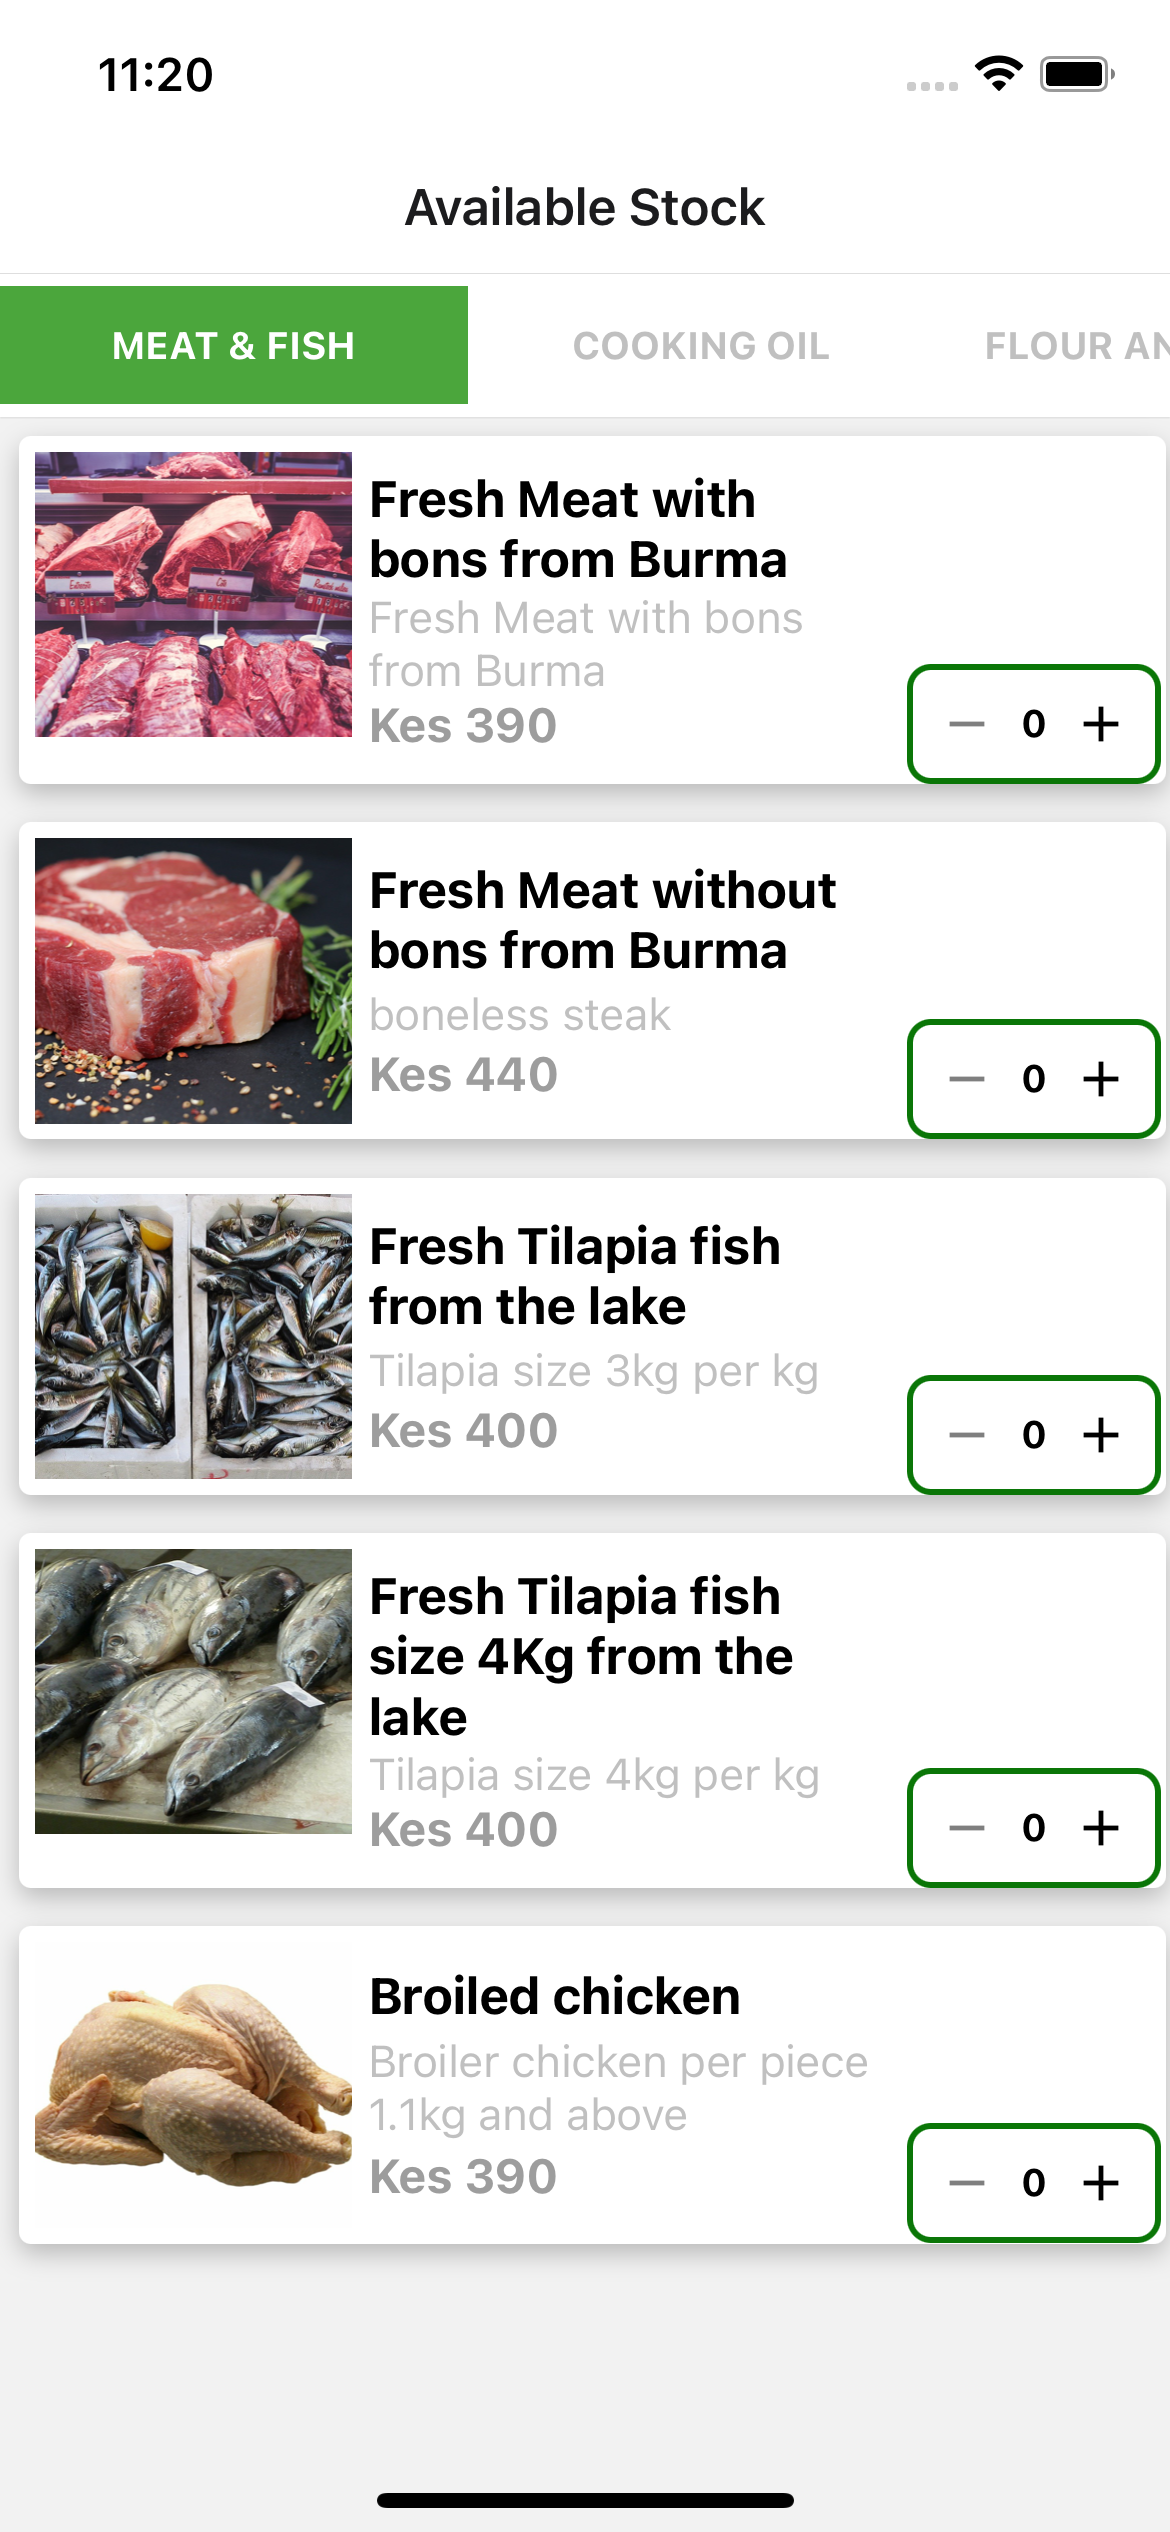
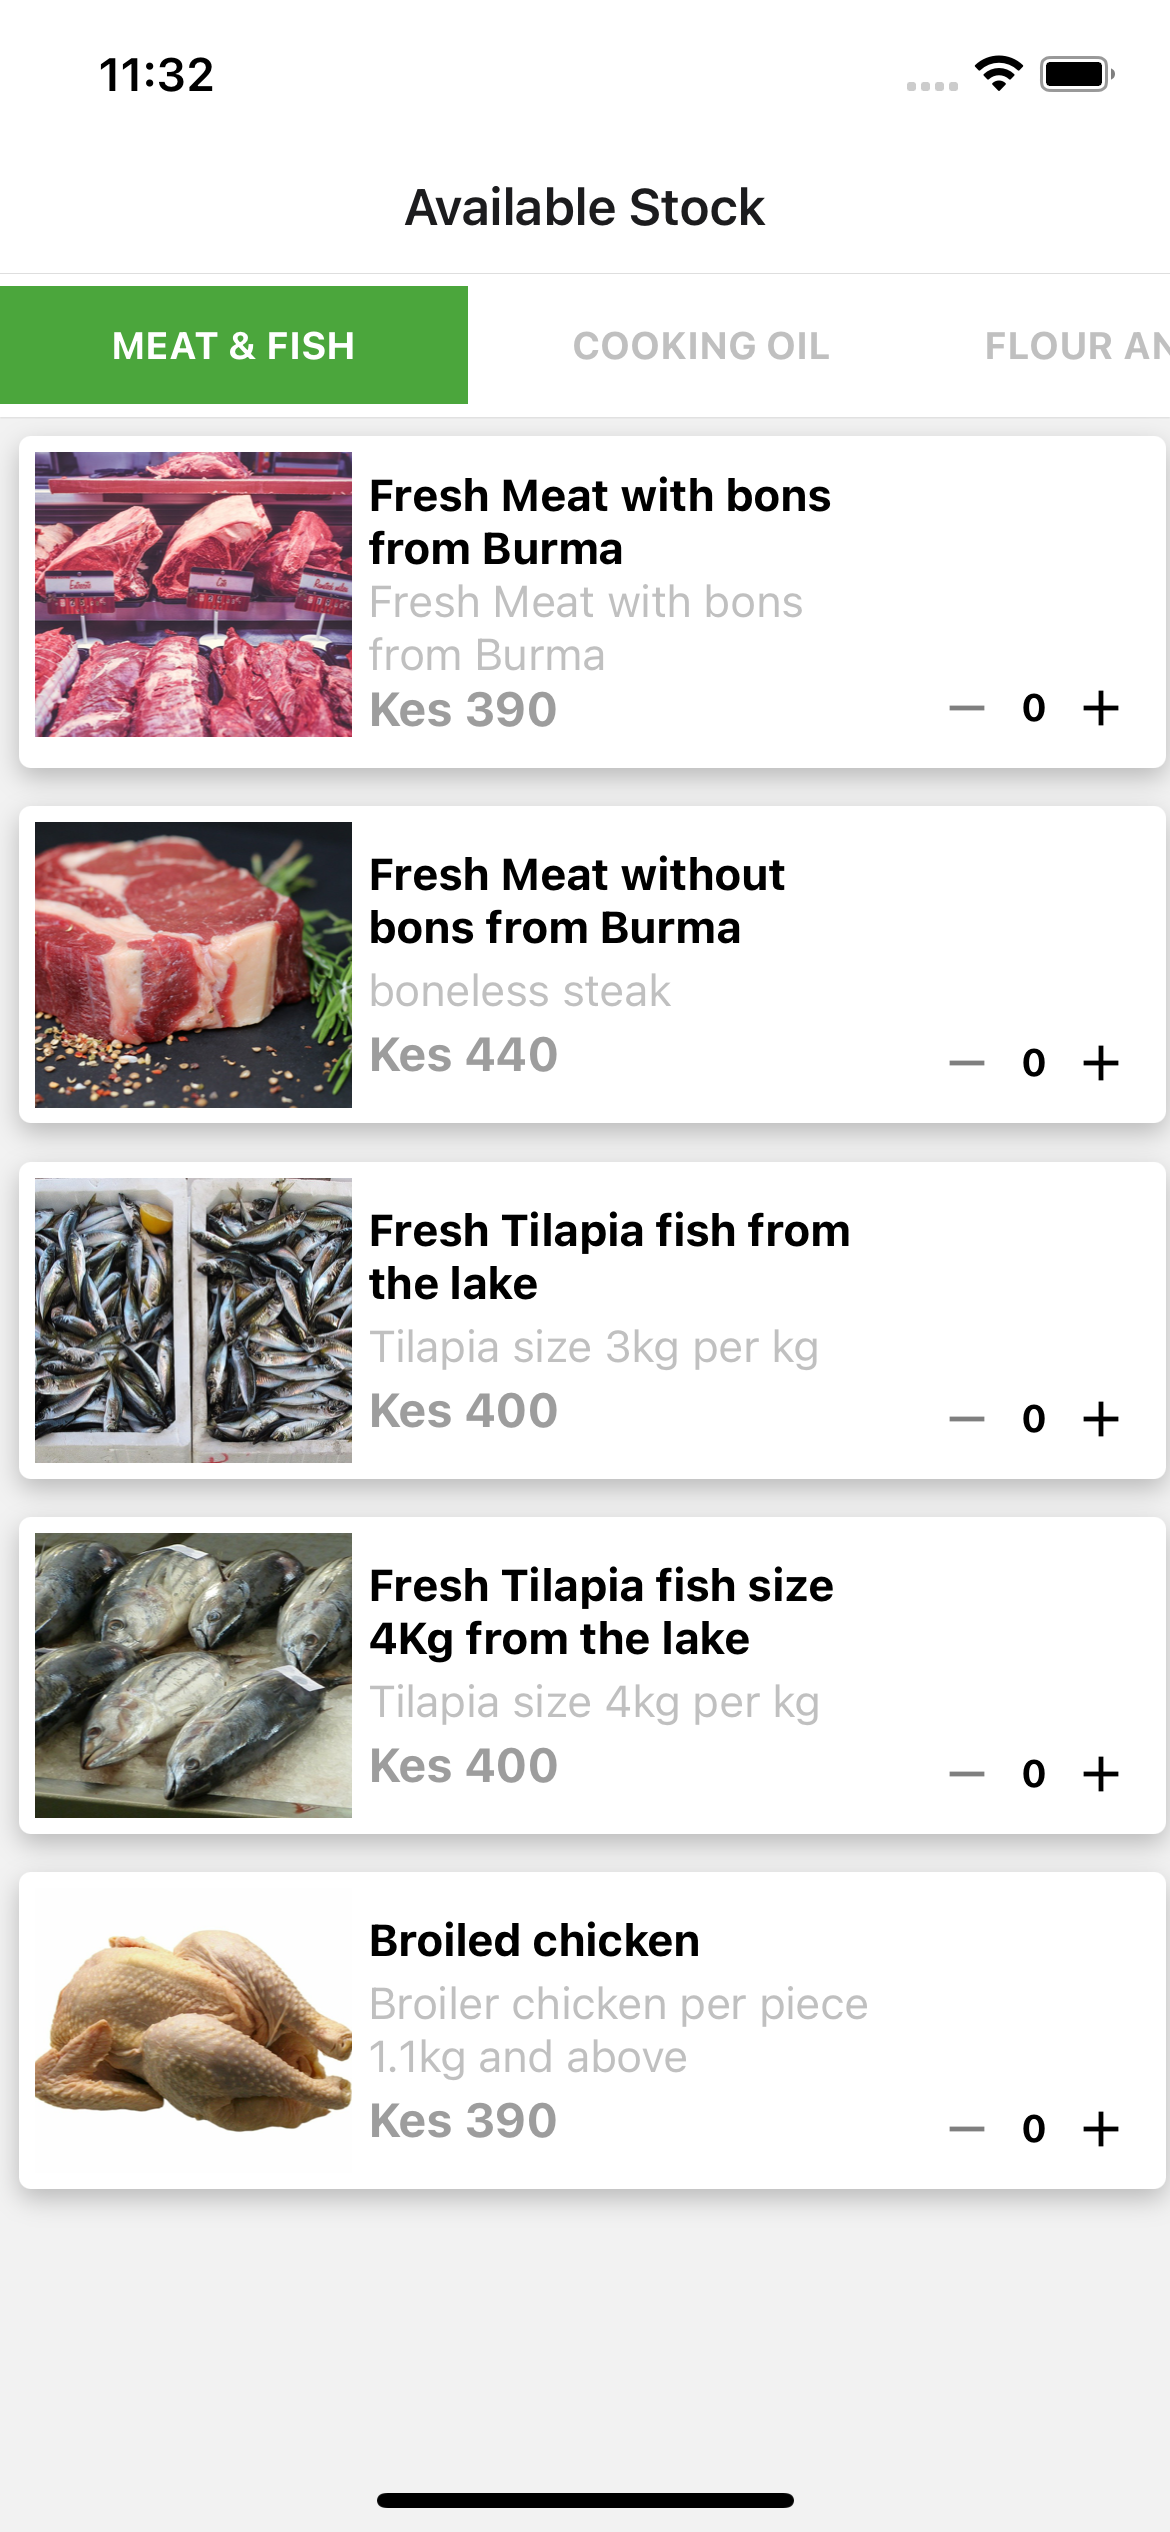
fix/readme

Changed region(s): [[0.0, 0.1872, 1.0, 0.9048]]

diff --git a/src/home/StockItem.js b/src/home/StockItem.js
@@ -74,7 +74,7 @@ class StockItem extends Component {
               <Text
                 style={{
                   fontWeight: 'bold',
-                  fontSize: moderateScale(16),
+                  fontSize: moderateScale(14),
                   width: moderateScale(160),
                 }}>
                 {item.title}
@@ -120,7 +120,7 @@ class StockItem extends Component {
                 borderRadius: 8,
                 overflow: 'hidden',
                 alignItems: 'center',
-                borderColor: colors.color_secondary,
+                borderColor: '#fff',
                 marginRight: moderateScale(30),
               }}
               textStyle={{
